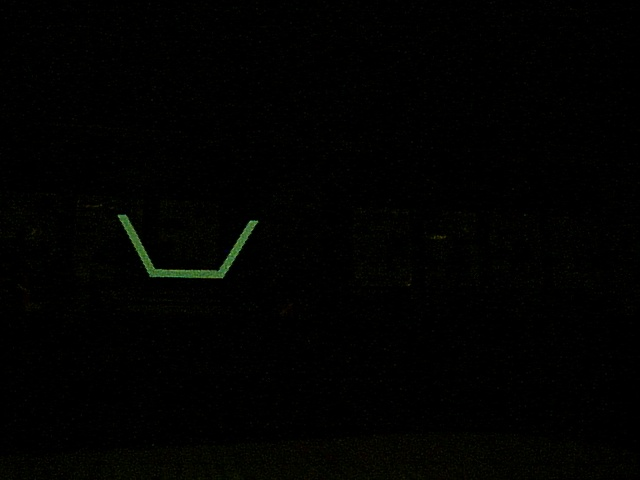
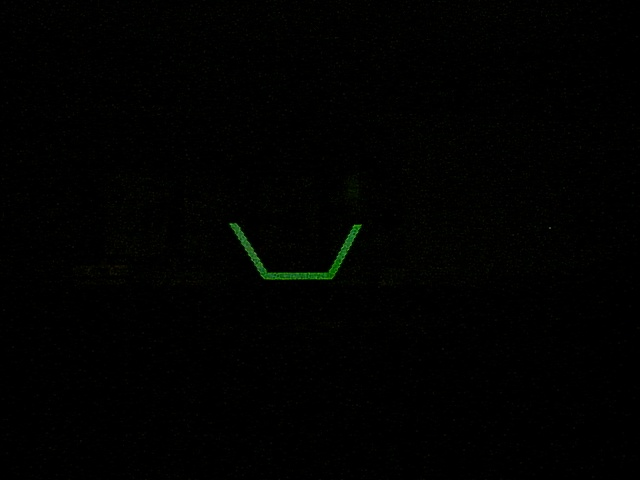
made images continuously display, changed image filtering, changed definition of object center, changed color bounds

Changed region(s): [[0.1875, 0.4375, 0.5625, 0.5938]]

diff --git a/imagetest.py b/imagetest.py
@@ -18,17 +18,18 @@ def removeNoise(hsv_img, kernelSize, lower_color_range, upper_color_range):
     # Remove noisy parts of the masked image
     no_noise = cv2.morphologyEx(close_gaps, cv2.MORPH_OPEN, kernel)
     # Undo the erosion to the actual target done during noise removal
-    dilate = cv2.dilate(no_noise, np.ones((5,10), np.uint8), iterations=5)
-    return dilate
+    #dilate = cv2.dilate(no_noise, np.ones((5,10), np.uint8), iterations=5)
+    #return dilate
+    return no_noise
 
 def findObjectContours(dilate, objName):
     # Find boundary of object
     dilcopy = dilate.copy()
     _, contours, _ = cv2.findContours(dilate, cv2.RETR_TREE, cv2.CHAIN_APPROX_SIMPLE)
     #print(len(returns))
-    con = contours[0]
+    con = contours[0] #Come back and make sure contours is not empty
     x, y, w, h = cv2.boundingRect(con)
-    obj_center = (int(x+(w/2)), int(y+(h/2))) 
+    obj_center = (int(x+(w/2)), int(y)) 
     img_center = (dilate.shape[1]/2, dilate.shape[0]/2)
     xydist = (obj_center[0]-img_center[0], obj_center[1] -img_center[1])
     print(str(xydist) + "x,y distances")
@@ -40,7 +41,7 @@ def findObjectContours(dilate, objName):
     contoured_image = cv2.rectangle(contoured_image, (x,y), (x+w, y+h), (100, 0, 0), 2)
     contoured_image = cv2.circle(contoured_image, obj_center, 3, (100, 0, 0), 2)
     cv2.imshow("contours", contoured_image)
-    cv2.waitKey(0) #Waits long enough for image to load
+    cv2.waitKey(1) #Waits long enough for image to load
 
     # # Only proceed if contours were found
     # if(contours != None):
@@ -68,37 +69,36 @@ def capture_images(device):
 
     cv2.imwrite("test_images/frame1.jpg", img=frame)
     cv2.imshow("frame", frame)
-    cv2.waitKey(0)
+    cv2.waitKey(1)
     return frame
 if __name__ == "__main__":
-    print("Imagetest main is running")
-    capture_images(0)
-    bgr_img = cv2.imread("test_images/frame1.jpg")
-    # cv2.imshow("Hello", bgr_img)
-    # cv2.waitKey(5000) # keeps the window open for 5 seconds--long enough to load the image
-    # Convert the frame to HSV
-    hsv_img = cv2.cvtColor(bgr_img, cv2.COLOR_BGR2HSV)
-    #cv2.imshow("Win1", bgr_img)
-
-    #img_hsv_lower = np.array([70, 170, 30])
-    #img_hsv_upper = np.array([90, 200, 50])
-    #color = whiteboard_color = np.array([110,91,80])
-    #color = green_color = np.array([34, 177, 76])
-    #color = retro_green = np.array([])
-    #bound = 40
-    #img_hsv_lower = np.array(color - bound)
-    #img_hsv_upper = np.array(color + bound)
-    img_hsv_lower = np.array([49, 70, 87]) #NOTE: opencv hsv is 0-179, 0-255, 0-255
-    img_hsv_upper = np.array([180, 255, 225])
-    img_dilate = removeNoise(bgr_img, (3,3), img_hsv_lower, img_hsv_upper)
-    cv2.imshow("dilated image", img_dilate)
-    cv2.waitKey(0)
-    #print (hex_dilate.shape)
-    #hex_img = np.array([])
-    findObjectContours(img_dilate, "retroreflective")
     while True:
+        print("Imagetest main is running")
+        capture_images(0)
+        bgr_img = cv2.imread("test_images/frame1.jpg")
+        # cv2.imshow("Hello", bgr_img)
+        # cv2.waitKey(5000) # keeps the window open for 5 seconds--long enough to load the image
+        # Convert the frame to HSV
+        hsv_img = cv2.cvtColor(bgr_img, cv2.COLOR_BGR2HSV)
+        #cv2.imshow("Win1", bgr_img)
 
-        continue
+        #img_hsv_lower = np.array([70, 170, 30])
+        #img_hsv_upper = np.array([90, 200, 50])
+        #color = whiteboard_color = np.array([110,91,80])
+        #color = green_color = np.array([34, 177, 76])
+        #color = retro_green = np.array([])
+        #bound = 40
+        #img_hsv_lower = np.array(color - bound)
+        #img_hsv_upper = np.array(color + bound)
+        img_hsv_lower = np.array([5, 34, 15]) #NOTE: opencv hsv is 0-179, 0-255, 0-255
+        img_hsv_upper = np.array([100, 255, 225])
+        img_dilate = removeNoise(bgr_img, (1,1), img_hsv_lower, img_hsv_upper)
+        cv2.imshow("dilated image", img_dilate)
+        cv2.waitKey(1)
+        #print (hex_dilate.shape)
+        #hex_img = np.array([])
+        findObjectContours(img_dilate, "retroreflective")
+        
 
     # # # Display the BGR image with found objects bounded by rectangles
     # # if(displayImages):
